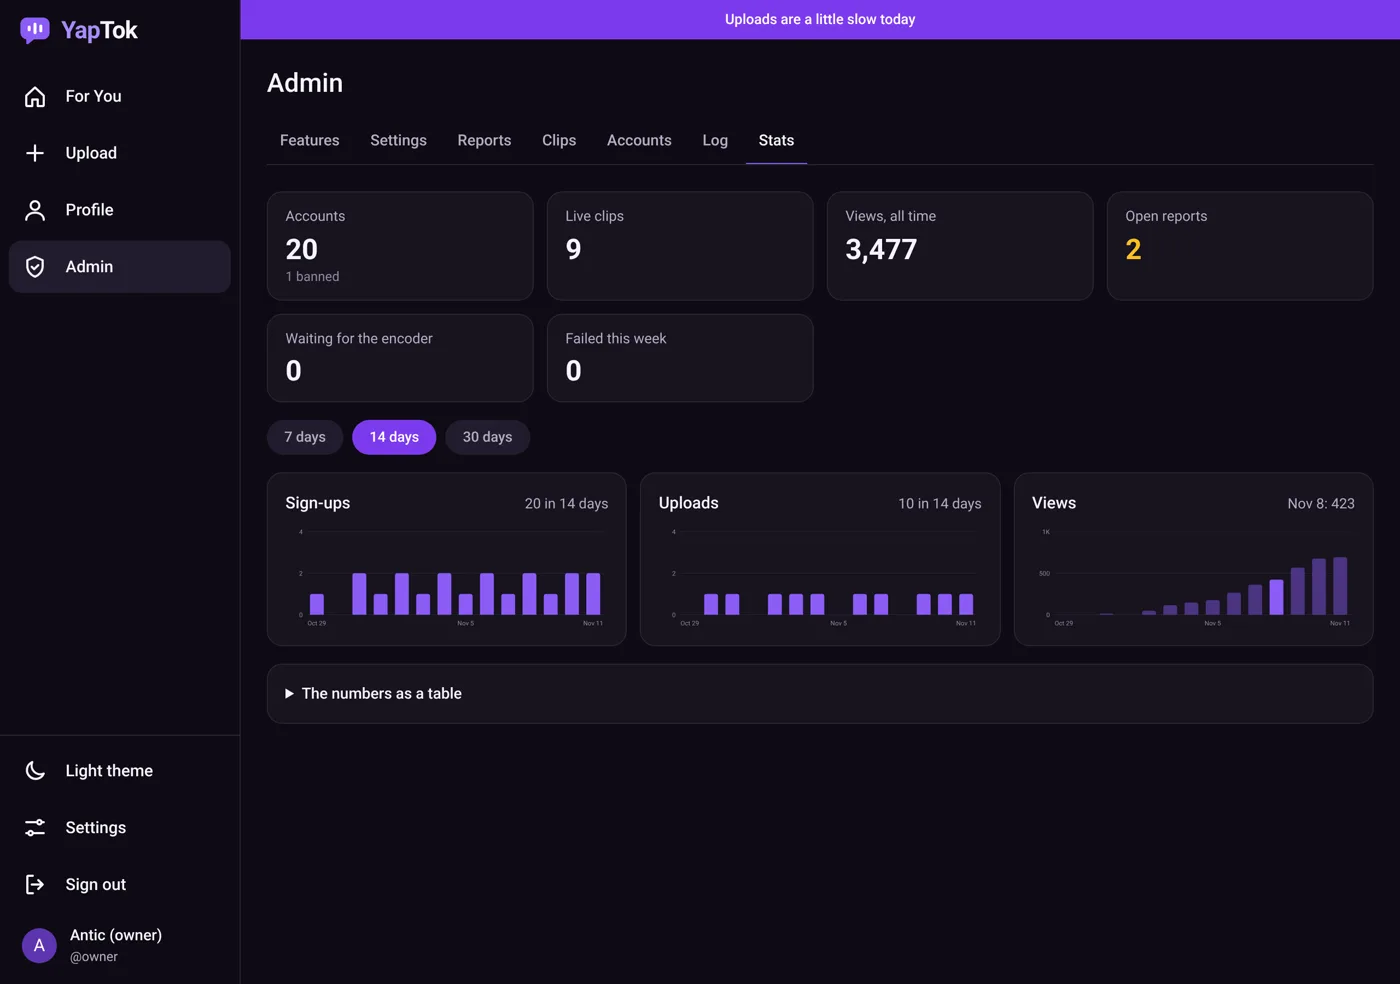
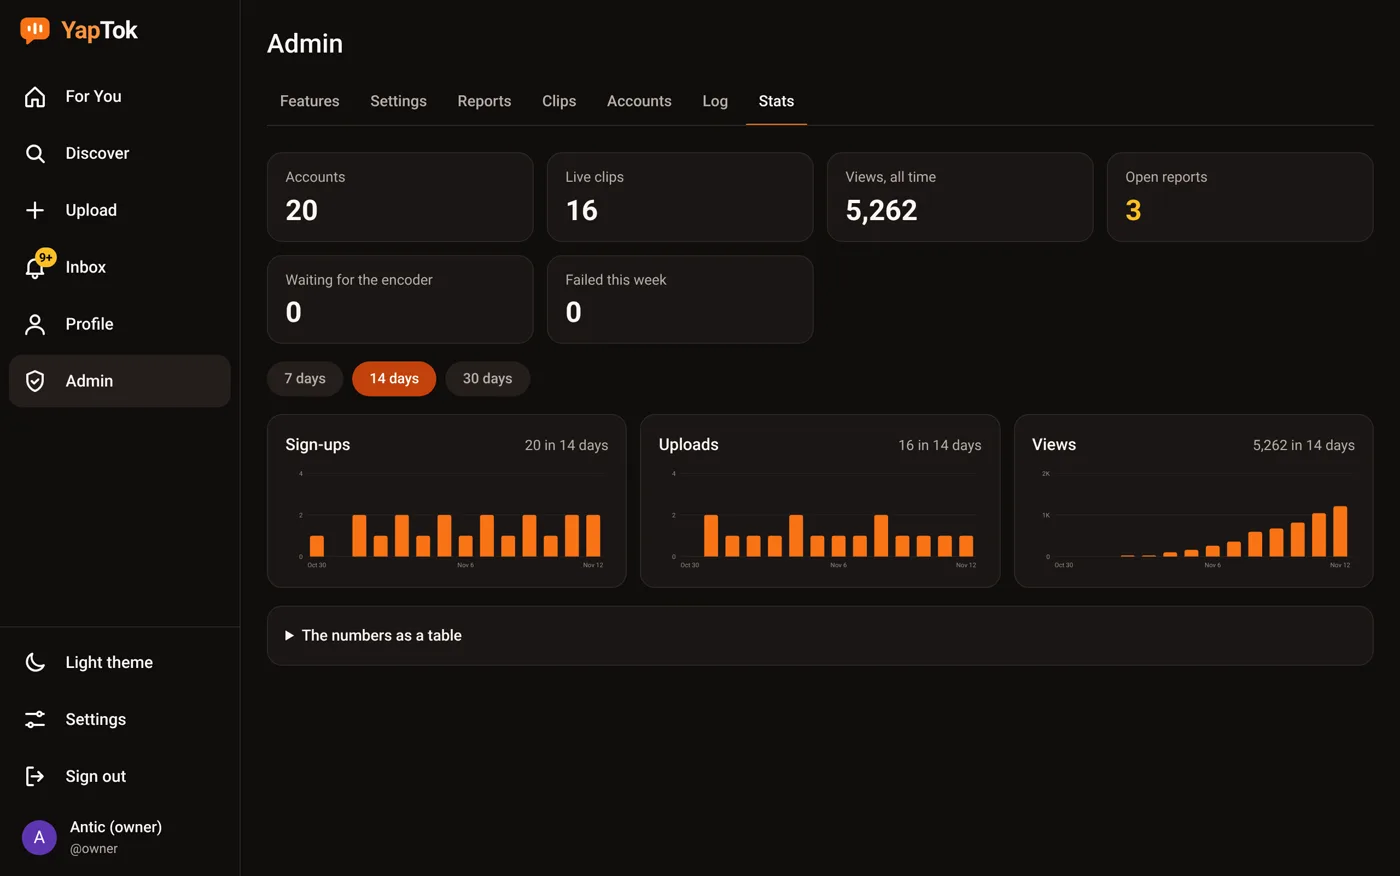
Brand: orange, the family color shared with Yapin'
lib/brand.ts and the CSS variables move from violet to orange with a
gold accent and warm neutral backgrounds. Buttons use the darker orange
so white text stays readable. Favicon redrawn, key screenshots retaken.

Claude-Session: https://claude.ai/code/session_01Xbdm6cociJcsiPnKLwtJ2V

diff --git a/lib/brand.ts b/lib/brand.ts
@@ -2,9 +2,10 @@
  * The YapTok mark, in one place so the app shell, the favicon and the sign in
  * card all draw the same thing.
  *
- * The mark is a violet speech bubble (a "yap") with three white sound bars
- * inside it: talk, on video. The accent is a warm amber, used sparingly (the
- * like heart and the upload button). It is our own drawing: no play button,
+ * The mark is an orange speech bubble (a "yap") with three white sound bars
+ * inside it: talk, on video. Orange is the family color it shares with
+ * Yapin'. The accent is a golden yellow, used sparingly (a liked heart, a
+ * saved bookmark, the unread dot). It is our own drawing: no play button,
  * no musical note, and nothing borrowed from another app.
  *
  * No imports on purpose, so `node --test` and scripts/favicon.mjs can load it.
@@ -13,31 +14,31 @@
 /** The mark is drawn on a 24 by 24 grid. */
 export const MARK_VIEWBOX = "0 0 24 24";
 
-/** The speech bubble with its tail at the bottom left, filled with the brand violet. */
+/** The speech bubble with its tail at the bottom left, filled with the brand orange. */
 export const MARK_BUBBLE =
   "M6.5 3h11A4.5 4.5 0 0 1 22 7.5v6a4.5 4.5 0 0 1-4.5 4.5h-6.2l-3.9 3.2c-.6.5-1.4.1-1.4-.7V17.9A4.5 4.5 0 0 1 2 13.5v-6A4.5 4.5 0 0 1 6.5 3z";
 
 /** The three sound bars inside the bubble, stroked in white. */
 export const MARK_BARS = "M8 9.6v1.8M12 7.6v5.8M16 8.9v3.2";
 
-/** Brand colors, also set as --brand, --brand-strong and --accent in app/globals.css. */
+/** Brand colors, also set as --mark, --brand, --brand-strong and --accent in app/globals.css. */
 export const BRAND = {
-  /** The mark and primary buttons. */
-  violet: "#7c3aed",
-  /** The mark on a dark page, links on dark. */
-  violetLight: "#a78bfa",
-  /** Hover and pressed states. */
-  violetDeep: "#6d28d9",
-  /** The like heart and small highlights. */
-  amber: "#f59e0b",
+  /** The mark and highlights. */
+  orange: "#f97316",
+  /** Links and the wordmark on a dark page. */
+  orangeLight: "#fb923c",
+  /** Buttons: dark enough for white text to read on it. */
+  orangeDeep: "#c2410c",
+  /** A liked heart, a saved bookmark, the unread dot. */
+  gold: "#fbbf24",
   /** The app's dark page color. */
-  ink: "#0e0b14",
+  ink: "#0f0d0c",
 } as const;
 
 export const SITE_NAME = "YapTok";
 
 /** The mark as a standalone SVG string (favicon, press use). */
-export function markSvg(size = 24, color: string = BRAND.violet): string {
+export function markSvg(size = 24, color: string = BRAND.orange): string {
   return (
     `<svg xmlns="http://www.w3.org/2000/svg" width="${size}" height="${size}" viewBox="${MARK_VIEWBOX}">` +
     `<path d="${MARK_BUBBLE}" fill="${color}"/>` +
@@ -46,14 +47,14 @@ export function markSvg(size = 24, color: string = BRAND.violet): string {
   );
 }
 
-/** The mark and the two tone wordmark ("Yap" in violet, "Tok" in near black). */
+/** The mark and the two tone wordmark ("Yap" in orange, "Tok" in near black). */
 export function logoSvg(): string {
   return (
     `<svg xmlns="http://www.w3.org/2000/svg" width="560" height="120" viewBox="0 0 140 30">` +
-    `<g transform="translate(1 2) scale(1.08)"><path d="${MARK_BUBBLE}" fill="${BRAND.violet}"/>` +
+    `<g transform="translate(1 2) scale(1.08)"><path d="${MARK_BUBBLE}" fill="${BRAND.orange}"/>` +
     `<path d="${MARK_BARS}" fill="none" stroke="#fff" stroke-width="2" stroke-linecap="round"/></g>` +
     `<text x="30" y="21" font-family="Roboto, Arial, sans-serif" font-size="20" font-weight="700" letter-spacing="-0.6">` +
-    `<tspan fill="${BRAND.violet}">Yap</tspan><tspan fill="#16121f">Tok</tspan></text>` +
+    `<tspan fill="${BRAND.orangeDeep}">Yap</tspan><tspan fill="#1c1410">Tok</tspan></text>` +
     `</svg>`
   );
 }

diff --git a/app/globals.css b/app/globals.css
@@ -8,60 +8,60 @@
 @custom-variant dark (&:where(.dark, .dark *));
 
 :root {
-  --page: #faf9fc;
+  --page: #fdfaf7;
   --surface: #ffffff;
-  --text: #16121f;
-  --text-2: #5b5567;
-  --text-3: #6f697c;
-  --brand: #7c3aed;
-  --brand-strong: #6d28d9;
-  --link: #6d28d9;
-  --mark: #7c3aed;
-  --logo-word: #7c3aed;
-  --accent: #d97706;
-  --divider: #e7e3ee;
-  --hover: #f1eef6;
-  --active: #e7e3ee;
-  --icon: #5b5567;
-  --input-border: #cfc9da;
+  --text: #1c1410;
+  --text-2: #5f554e;
+  --text-3: #736860;
+  --brand: #ea580c;
+  --brand-strong: #c2410c;
+  --link: #c2410c;
+  --mark: #f97316;
+  --logo-word: #ea580c;
+  --accent: #b45309;
+  --divider: #ece5df;
+  --hover: #f5efea;
+  --active: #ece5df;
+  --icon: #5f554e;
+  --input-border: #d6ccc4;
   --input-bg: #ffffff;
-  --skeleton: #ebe7f1;
-  --menu-shadow: 0 8px 32px rgba(22, 18, 31, 0.14), 0 0 0 1px rgba(22, 18, 31, 0.08);
-  --focus: #7c3aed;
+  --skeleton: #efe8e2;
+  --menu-shadow: 0 8px 32px rgba(28, 20, 16, 0.14), 0 0 0 1px rgba(28, 20, 16, 0.08);
+  --focus: #ea580c;
   --error: #c62828;
   --ok: #15803d;
   --warn: #b45309;
-  --progress: #7c3aed;
-  --progress-track: #e7e3ee;
+  --progress: #ea580c;
+  --progress-track: #ece5df;
   color-scheme: light;
 }
 
 :root.dark {
-  --page: #0e0b14;
-  --surface: #17131f;
-  --text: #f5f3fa;
-  --text-2: #b3adc2;
-  --text-3: #8f89a0;
-  --brand: #8b5cf6;
-  --brand-strong: #7c3aed;
-  --link: #a78bfa;
-  --mark: #8b5cf6;
-  --logo-word: #a78bfa;
-  --accent: #f59e0b;
-  --divider: #2a2436;
-  --hover: #221c2e;
-  --active: #2a2436;
-  --icon: #b3adc2;
-  --input-border: #3a3349;
-  --input-bg: #120e1a;
-  --skeleton: #221c2e;
+  --page: #0f0d0c;
+  --surface: #1a1614;
+  --text: #faf6f3;
+  --text-2: #b8aea8;
+  --text-3: #948a84;
+  --brand: #f97316;
+  --brand-strong: #c2410c;
+  --link: #fb923c;
+  --mark: #f97316;
+  --logo-word: #fb923c;
+  --accent: #fbbf24;
+  --divider: #2e2723;
+  --hover: #241e1b;
+  --active: #2e2723;
+  --icon: #b8aea8;
+  --input-border: #3d342f;
+  --input-bg: #140f0d;
+  --skeleton: #241e1b;
   --menu-shadow: 0 8px 32px rgba(0, 0, 0, 0.5), 0 0 0 1px rgba(255, 255, 255, 0.08);
-  --focus: #a78bfa;
+  --focus: #fb923c;
   --error: #ff6b61;
   --ok: #4ade80;
   --warn: #fbbf24;
-  --progress: #8b5cf6;
-  --progress-track: #2a2436;
+  --progress: #f97316;
+  --progress-track: #2e2723;
   color-scheme: dark;
 }
 
@@ -145,7 +145,7 @@
     appearance: auto;
   }
 
-  /* The main action on a page: a violet pill. */
+  /* The main action on a page: an orange pill. */
   .btn-primary {
     display: inline-flex;
     align-items: center;

diff --git a/components/feed/FeedNotice.tsx b/components/feed/FeedNotice.tsx
@@ -28,7 +28,7 @@ export function FeedNotice({ state, title, children, action }: { state: string; 
 export function FeedSkeleton() {
   return (
     <div className="feed-stage flex items-center justify-center" aria-hidden>
-      <div className="h-full w-full bg-[#17131f] desk:my-4 desk:aspect-[9/16] desk:h-[calc(100%-32px)] desk:w-auto desk:rounded-2xl" />
+      <div className="h-full w-full bg-[#1a1614] desk:my-4 desk:aspect-[9/16] desk:h-[calc(100%-32px)] desk:w-auto desk:rounded-2xl" />
     </div>
   );
 }

diff --git a/components/Toast.tsx b/components/Toast.tsx
@@ -15,7 +15,7 @@ export function Toast() {
   return (
     <div aria-live="polite" className="pointer-events-none fixed inset-x-0 bottom-[calc(var(--bottom-bar)+16px)] z-[70] flex justify-center px-4">
       {toast && (
-        <p className="rounded-full bg-[#221c2e] px-4 py-2 text-[14px] text-white shadow-lg" data-toast>
+        <p className="rounded-full bg-[#2e2723] px-4 py-2 text-[14px] text-white shadow-lg" data-toast>
           {toast}
         </p>
       )}

diff --git a/components/icons.tsx b/components/icons.tsx
@@ -34,7 +34,7 @@ function solid(children: ReactNode) {
   };
 }
 
-/** The YapTok mark: the violet speech bubble with three sound bars (lib/brand.ts). */
+/** The YapTok mark: the orange speech bubble with three sound bars (lib/brand.ts). */
 export function LogoMark({ className }: IconProps) {
   return (
     <svg viewBox={MARK_VIEWBOX} className={className} aria-hidden>

diff --git a/NOTICE.md b/NOTICE.md
@@ -14,7 +14,7 @@ schema) was written for YapTok.
 
 ## Our own name and look
 
-The name YapTok, the speech bubble mark and the violet and amber palette are
+The name YapTok, the speech bubble mark and the orange and gold palette are
 this project's own (see `lib/brand.ts`). The icons are drawn in
 `components/icons.tsx`. YapTok is not affiliated with, endorsed by or
 connected to any other video or social app, and it does not use anyone else's
